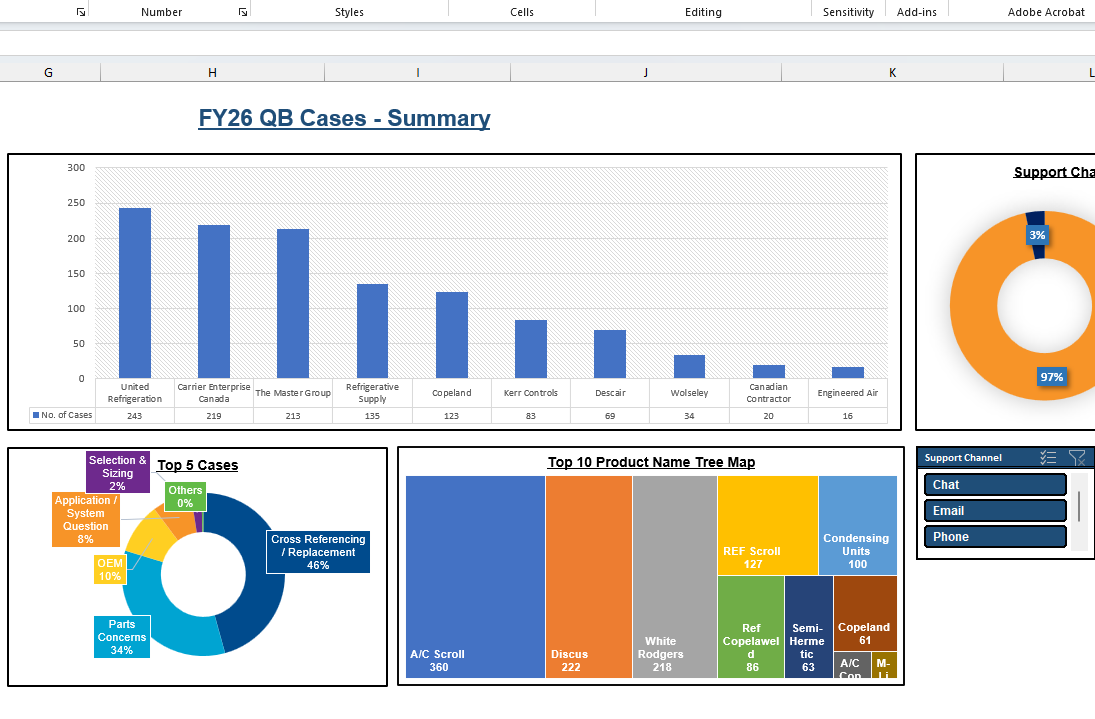
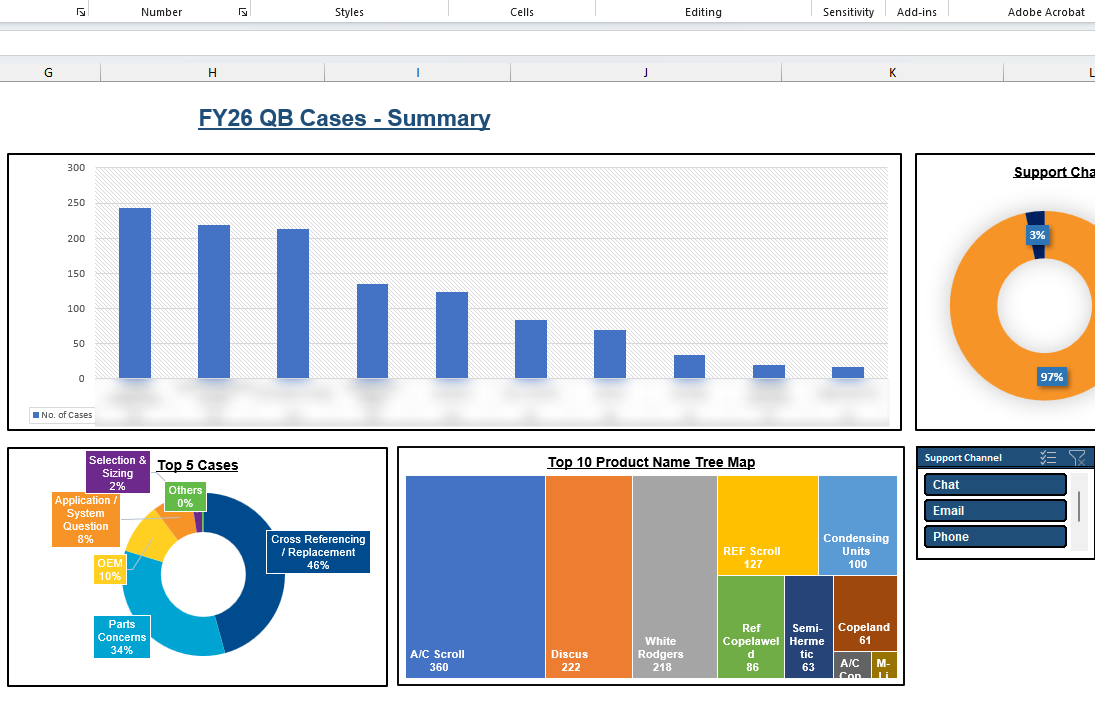
Portfolio Updates - Google Analytics 4 Certificate Added

diff --git a/index.html b/index.html
@@ -398,23 +398,23 @@
             </tr>
             <tr>
                 <td>Data Analysis & Visualization:</td>
-                <td>Pandas, Tableau, Power BI</td>
+                <td>Google Analytics, Pandas, Tableau, Power BI</td>
             </tr>
             <tr>
                 <td>Automation & Workflow Tools:</td>
-                <td> Azure Data Factory, Power Automate, SharePoint</td>
+                <td>Azure Data Factory, Power Automate, SharePoint</td>
             </tr>
             <tr>
                 <td>Productivity & Collaboration Tools:</td>
-                <td> MS365 Platform</td>
+                <td>MS365 Platform</td>
             </tr>
             <tr>
                 <td>Enterprise Systems:</td>
-                <td> Oracle ERP [BOM Management & Item Setup]</td>
+                <td>Oracle ERP</td>
             </tr>
             <tr>
                 <td>Version Control:</td>
-                <td> Git</td>
+                <td>Git</td>
             </tr>
 
         </table>
@@ -426,6 +426,12 @@
         <h2>Certificates & Badges</h2>
 
         <div class="certifications-gallery">
+
+            <div class="certification-container">
+                <img src="Images/Google Analytics 4.png" alt="Google Analytics 4" class="certifications-responsive-image">
+            </div>
+
+            <br>
 
             <div class="certification-container">
                 <img src="Images/Intro to Snowflake SQL.png" alt="Intro to Snowflake SQL" class="certifications-responsive-image">